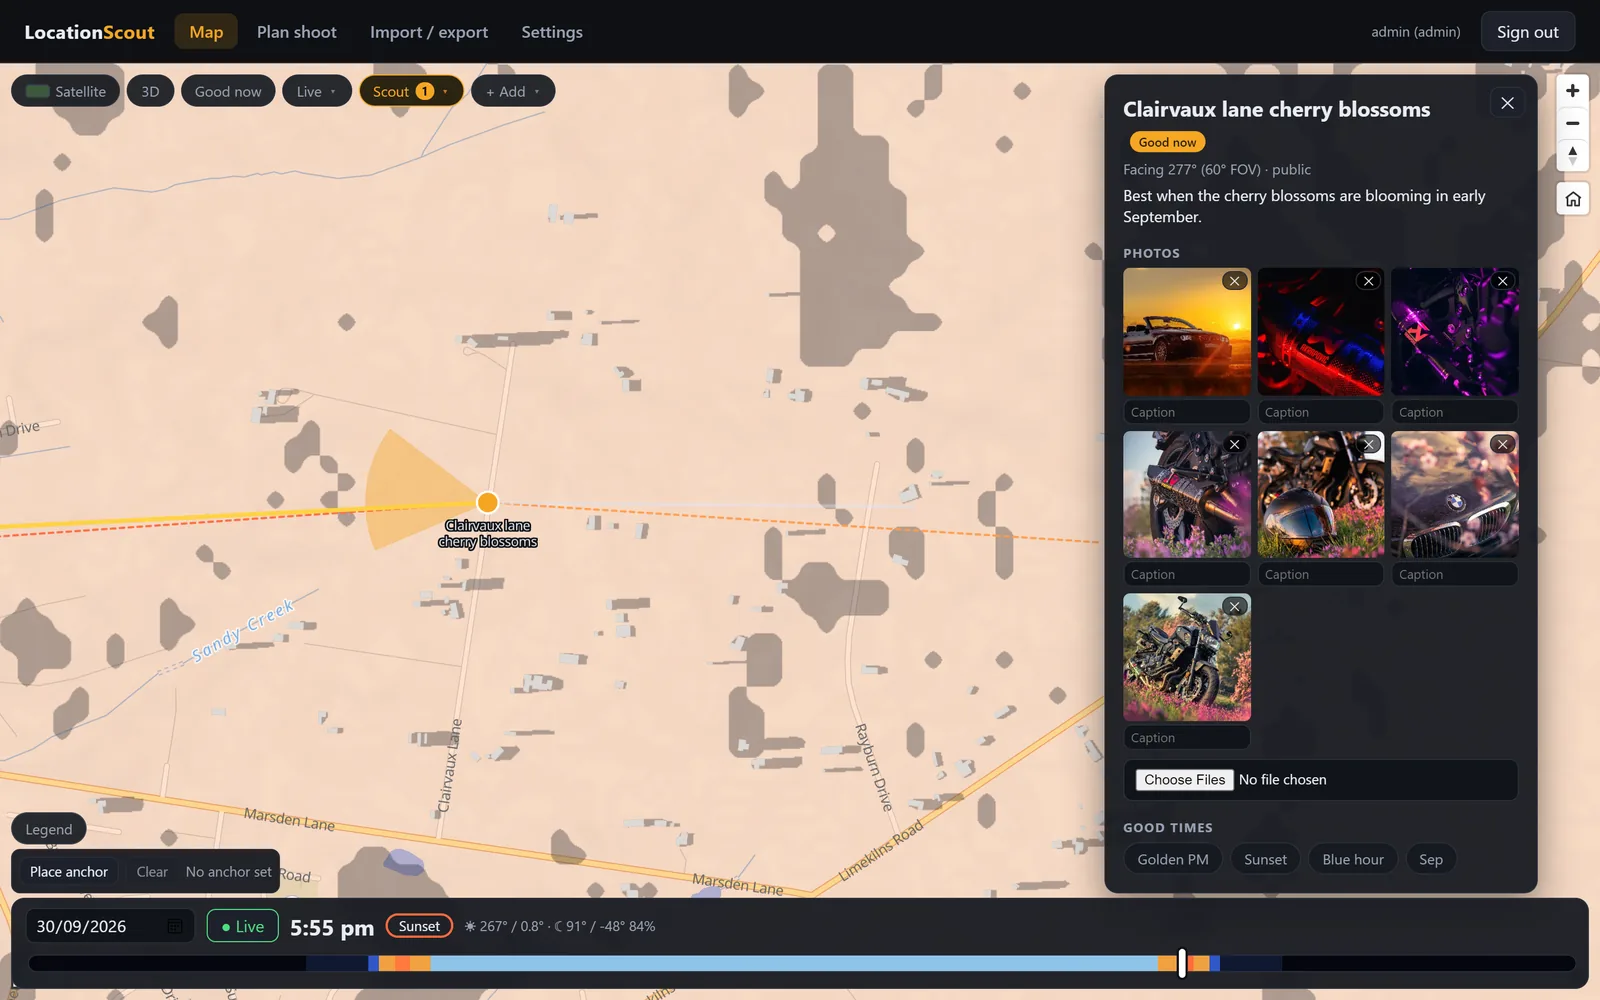
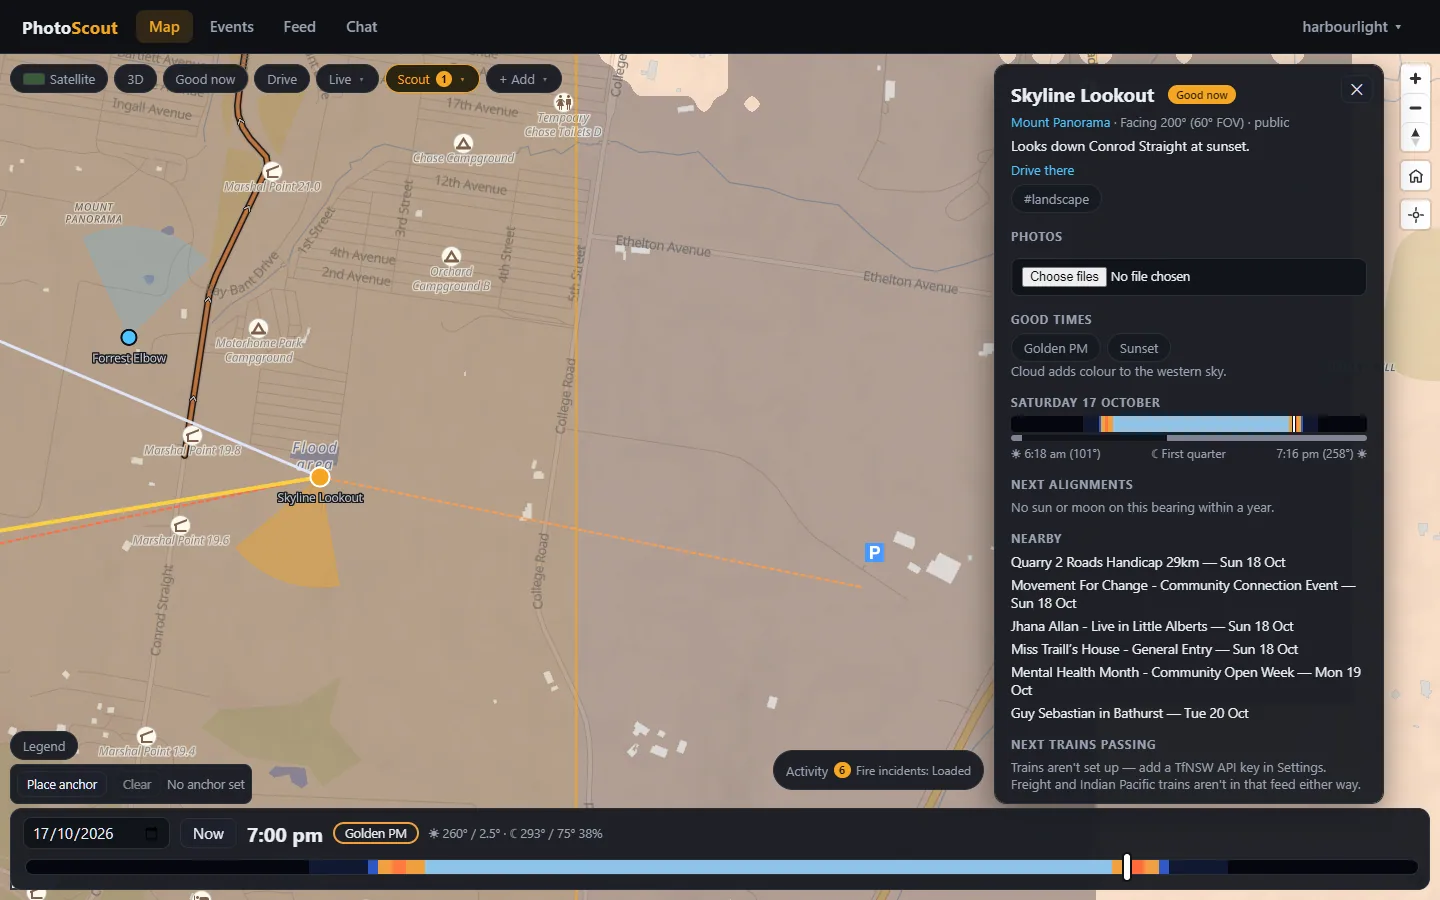
docs(readme): refresh for the current app, new screenshots (#9)

diff --git a/README.md b/README.md
@@ -1,31 +1,34 @@
 # PhotoScout
 
-A map of photography spots, the events worth shooting, and when the light works at them. Visitors can browse the public map; people who sign in with Google or Discord add their own spots.
+A map of photography spots, the events worth shooting, and when the light works at them. A new instance is private: people sign in with Google or Discord, then add their own spots. An admin can open the public map to visitors (see [Signing in](#signing-in)).
 
-![Mount Panorama in 3D on satellite at sunset](docs/screenshots/05-3d-mount-panorama.webp)
+![Mount Panorama in 3D on satellite at sunset](docs/screenshots/03-3d-mount-panorama.webp)
 
 ## What it does
 
 - **Spots and places.** Save spots (a point, a facing direction, a field of view, notes, photos, "good times") grouped into places with outlines. GPS is read from uploaded photos, then stripped before they're stored.
 - **Light on the map.** A time slider drives sun and moon position, golden and blue hour, terrain and building shadows, and sun/moon alignment with each spot's facing direction.
 - **Plan shoot.** Pick a spot and a date range, tick what you're after (golden light, open shade, alignment, clear sky, trains…), and get ranked time windows. Drill into a day's light, shade and weather, preview the view from the spot, or find the exact dates the sun lines up with a bearing on a small interactive map.
-- **Live feeds.** Planes overhead (adsb.lol), NSW passenger trains (TfNSW), a rail network layer with crowdsourced freight sightings, nearby crowds from the built-in events engine, Wikimedia Commons photos, and OpenStreetMap suggestions you can turn into spots.
-- **Events.** The events engine (what was event-scout) runs inside this server: it gathers upcoming events from the sources an admin switches on, places and culls them, and shows them on an Events page, a Calendar and a clustered map layer. Anyone can browse them; signed-in users keep their own shortlist and hide what they don't want. Admins manage areas, sources, the crawler, the local model and notifications under Settings.
-- **Drive.** An in-car screen (`/drive`) with turn-by-turn directions to a searched, tapped or saved destination, or along a saved route. Heading-up map that follows you, speed, spoken prompts, rerouting, and the screen kept awake. Install PhotoScout to your home screen from the browser's menu and it opens like an app.
+- **Live feeds.** Planes overhead (adsb.lol), NSW passenger trains and live traffic cameras (TfNSW, needs a key), a rail network layer with crowdsourced freight sightings, NSW RFS fire incidents, aurora (NOAA Kp), weather and rain radar, tides and swell, road quality from OpenStreetMap, Wikimedia Commons photos, and OpenStreetMap suggestions you can turn into spots.
+- **Events.** The events engine runs inside this server: it gathers upcoming events from the sources an admin switches on, places and culls them, and shows them on an Events page, a Calendar and a clustered map layer. Signed-in users keep their own shortlist, say they're going, invite each other and hide what they don't want, and can post their own meets and cruises (with a route to drive and a meeting point). Admins manage areas, sources, the crawler, AI models, notifications (Discord, Matrix) and busy-place density under Settings.
+- **Drive.** An in-car screen (`/drive`) with turn-by-turn directions to a searched, tapped or saved destination, or along a saved route. Heading-up map that follows you, speed, spoken prompts, rerouting, and the screen kept awake. Start or join a **convoy** (`/convoy`) to see each other live on the map. Install PhotoScout to your home screen from the browser's menu and it opens like an app.
+- **Community.** A feed of check-ins, rides, gear and events (everyone's, or only people you follow), a short-lived public chat room, and a Kit page for your bio, cars and bikes, and camera gear. Reports and suggested spots go to a moderation queue for admins and moderators.
+- **Plugins.** Extra map layers, panels, Settings tabs, Drive alerts and background jobs that you install without changing the app. See [Plugins](#plugins).
 - **Import, export, share.** KML/KMZ, GPX, GeoJSON, CSV and Google Takeout in; GeoJSON, GPX or a zip with photos out. Share links, and syncing spots from other instances.
-- **Accounts.** Sign in with Google or Discord; there are no passwords. The instance is private by default (everything needs a sign-in); an admin can allow public reads under Settings > Instance, and then anonymous visitors see public spots, places and routes, and the events. Signed-in contributors add and edit their own; admins manage everyone's, the users and the settings.
+- **Accounts.** Sign in with Google or Discord; there are no passwords. The instance is private by default (everything needs a sign-in); an admin can allow public reads under Settings > Instance (or set `PUBLIC_READS`), and then anonymous visitors see public spots, places and routes, and the events. Signed-in contributors add and edit their own; moderators handle reports; admins manage everyone's, the users and the settings.
 
 ## Screenshots
 
 | | |
 |---|---|
-| ![Map overview at sunset](docs/screenshots/01-map-overview.webp) Map at sunset, sun and moon rays | ![Spot panel](docs/screenshots/02-spot-panel.webp) A spot: facing wedge, photos, good times |
-| ![Photo viewer](docs/screenshots/03-photo-viewer.webp) Photo viewer | ![Photo hover card](docs/screenshots/04-photo-markers.webp) Hover a spot for its photo |
-| ![Capertee Valley in 3D](docs/screenshots/06-3d-capertee-valley.webp) 3D terrain, Capertee Valley | ![Live trains](docs/screenshots/07-trains.webp) Live and scheduled trains |
-| ![Route](docs/screenshots/08-route.webp) A route | ![Traffic camera](docs/screenshots/09-traffic-camera.webp) Live traffic camera, 3D at night |
-| ![Rain radar](docs/screenshots/10-weather.webp) Rain radar and cloud | ![Light pollution](docs/screenshots/11-light-pollution.webp) Light pollution |
-| ![Plan shoot](docs/screenshots/12-plan-shoot.webp) Plan shoot: ranked windows | <img src="docs/screenshots/13-phone-spot.webp" alt="Phone layout" width="180"> Phone layout |
-| ![Import and export](docs/screenshots/14-import-export.webp) Import, export, share | ![Settings](docs/screenshots/15-settings.webp) Settings |
+| ![Map overview at sunset](docs/screenshots/01-map-overview.webp) Map at sunset: sun and moon rays, terrain and building shadows | ![Spot panel](docs/screenshots/02-spot-panel.webp) A spot: facing wedge, good times, the day's light, nearby events |
+| ![Route](docs/screenshots/04-route.webp) A saved route | ![Plan shoot](docs/screenshots/05-plan-shoot.webp) Plan shoot: ranked windows |
+| ![Events](docs/screenshots/06-events.webp) Events, filtered to Cars & bikes | ![Calendar](docs/screenshots/07-calendar.webp) Calendar, month view |
+| ![Light pollution](docs/screenshots/10-light-pollution.webp) Night lights | ![Import and export](docs/screenshots/11-import-export.webp) Import, export, share |
+| ![Plugins](docs/screenshots/12-plugins.webp) Settings > Manage plugins, browsing a registry | ![Settings](docs/screenshots/13-settings.webp) Settings > Instance: who can view |
+| <img src="docs/screenshots/08-drive.webp" alt="Drive" width="180"> Drive, previewing a route to a tapped destination | <img src="docs/screenshots/09-phone-spot.webp" alt="Phone layout" width="180"> Phone layout |
+
+The events shown are whatever the engine found for the demo area; they are other people's listings.
 
 ## Run it
 
@@ -36,7 +39,7 @@ npm install
 npm run dev
 ```
 
-Open http://localhost:5174. The API runs on :3003 and Vite proxies `/api` to it. Browsing works straight away; to sign in, set up at least one provider (below).
+Open http://localhost:5174. The API runs on :3003 and Vite proxies `/api` to it. The instance is private, so you need a provider set up (below) to sign in. To look around without one, start it with `PUBLIC_READS=1`: the public map is then open, though adding anything still needs a sign-in.
 
 With Docker, using the published image:
 
@@ -44,19 +47,30 @@ With Docker, using the published image:
 docker compose pull && docker compose up -d
 ```
 
-Then open http://localhost:3003 (set `PUBLIC_URL` to match, see below).
+Then open http://localhost:3003 (set `PUBLIC_URL` to match, see below). The compose file also starts the event crawler and an OSRM routing server (see Driving directions).
 
 > :3003 in dev serves the last `npm run build` of the web app, not your working copy. Use :5174 while developing.
 
 ### Signing in
 
-Sign-in goes to Google or Discord and back; this app keeps the provider's id for you, a display name to make a handle from, and your picture. No email address is asked for. A provider only appears on the sign-in page once both its client id and secret are set.
+Sign-in goes to Google or Discord and back; this app keeps the provider's id for you, a display name to make a handle from, and your picture. No email address is asked for. A provider only appears on the sign-in page once both its client id and secret are set, so configure one or both.
 
 1. Create an OAuth client with the provider and give it the redirect URL `<PUBLIC_URL>/api/auth/google/callback` (or `.../discord/callback`). For local development that is `http://localhost:5174/api/auth/google/callback`.
 2. Set `PUBLIC_URL` to the address people reach the app at, with no trailing slash. It has to match exactly: it builds the redirect URL, and a write request whose `Origin` is anything else is refused.
-3. Sign in, then open Settings > Account. It shows your account id (`google:1234…`). Put it in `ADMIN_IDS` and sign in again to become an admin. Everyone else is a contributor.
+3. Put the client id and secret in the environment (below), or enter them under Settings > Sign-in once you have an admin. The environment wins when it sets a provider.
+4. Sign in, then open Settings > Account. It shows your account id (`discord:1234…`). Put it in `ADMIN_IDS` and sign in again to become an admin. Everyone else is a contributor; admins can make moderators under Settings > Users.
 
 The session cookie is `Secure`, so run it behind HTTPS. Browsers make an exception for `localhost`.
+
+### Plugins
+
+A plugin is a zip with a `plugin.json` and a server half, a web half, or both. It can add routes and a database, background tasks, map layers, legend toggles, side panels, Settings tabs and Drive alert sources. Admins manage them under Settings > Manage plugins: install from a registry, upload a zip, or add another registry (https only). A plugin has full access to the instance, so install only what you trust.
+
+- **Registry.** The default is [kapsikkum/photoscout-plugins](https://github.com/kapsikkum/photoscout-plugins); `PLUGIN_REGISTRY_URL` points a fresh instance somewhere else.
+- **Bundled.** Radio Garden (a radio panel with stations on the map) ships with the app and is installed at startup. An admin can disable or uninstall it.
+- **Waze police and hazards.** Not part of core. It lives in [kapsikkum/photoscout-plugin-waze](https://github.com/kapsikkum/photoscout-plugin-waze) and is listed in the registry. Installed, it adds the Police & hazards layer, a police heatmap and Drive warnings. Its reports come from an Android emulator bridge you host yourself: see [services/waze-harvester/README.md](services/waze-harvester/README.md) and `npm run waze:setup`.
+- **Writing one.** [docs/plugins/authoring.md](docs/plugins/authoring.md) walks through it, with a starter in `docs/plugins/template` and the contract in `packages/plugin-sdk`. `npm run plugin:validate -- plugins/<name>` checks a manifest and `npm run plugin:build -- plugins/<name>` makes the zip.
+- **Safe mode.** `PHOTOSCOUT_SAFE_MODE=1` starts the server without running any plugin, for when one misbehaves.
 
 ### Driving directions (OSRM)
 
@@ -80,47 +94,60 @@ The compose file mounts `./osrm` into the `osrm` container and sets `OSRM_URL=ht
 | Variable | Default | Meaning |
 |---|---|---|
 | `API_PORT` | `3003` | Server port. |
-| `PUBLIC_URL` | `http://localhost:5174` | Where this app is reached from outside, no trailing slash. Sign-in redirects back to it. |
-| `GOOGLE_CLIENT_ID`, `GOOGLE_CLIENT_SECRET` | — | Turns on "Continue with Google". |
-| `DISCORD_CLIENT_ID`, `DISCORD_CLIENT_SECRET` | — | Turns on "Continue with Discord". |
+| `PUBLIC_URL` | `http://localhost:5174` (compose: `http://localhost:3003`) | Where this app is reached from outside, no trailing slash. Sign-in redirects back to it. |
+| `GOOGLE_CLIENT_ID`, `GOOGLE_CLIENT_SECRET` | — | Turns on "Continue with Google". Can also be set under Settings > Sign-in; the environment wins. |
+| `DISCORD_CLIENT_ID`, `DISCORD_CLIENT_SECRET` | — | Turns on "Continue with Discord". Same. |
 | `ADMIN_IDS` | — | Comma-separated `provider:id` accounts that are admins, e.g. `google:1234,discord:5678`. Takes effect on their next sign-in. |
 | `PUBLIC_READS` | — | Whether visitors who have not signed in may read the public map. Unset, the instance is private: everything but signing in needs a session. `1` or `true` allows public reads; any other value (`0`, `false`) keeps it private. Wins over the Settings > Instance switch. |
 | `TRUST_PROXY` | — | Behind a reverse proxy: hops to trust `X-Forwarded-For` from. The proxy must also pass WebSocket upgrades on `/ws` (convoys and live chat); without it chat falls back to polling and convoys do not connect. |
 | `DATA_DIR` | `data/` in the repo (`/app/data` in the image) | Where the database and photos are kept. |
-| `TFNSW_API_KEY` | — | TfNSW Open Data key, for passenger trains and live traffic cameras. |
-| `EVENT_SCOUT_DATA` | `<DATA_DIR>/events` | Where the events engine keeps its own database (`event-scout.db`) and flyers. To bring an existing event-scout across, copy its `data/` folder here. |
-| `OSRM_URL` | `https://router.project-osrm.org` | Driving directions for Drive and snapped routes. The default is the public OSRM demo, for development only; in production point it at your own (below). docker-compose sets it to the bundled `osrm` service. |
+| `TFNSW_API_KEY` | — | TfNSW Open Data key, for passenger trains and live traffic cameras. Can also be set under Settings > Trains; the environment wins. |
+| `EVENT_SCOUT_DATA` | `<DATA_DIR>/events` | Where the events engine keeps its own database and flyers. (The name is left over from when it was a separate service.) |
+| `CRAWLER_URL` | `http://crawler:3002` in compose | Where the event crawler listens. Settings > Crawler can point elsewhere. |
+| `OLLAMA_URL` | `http://localhost:11434` | Default address for an Ollama AI model service. AI models (Ollama, OpenAI-compatible servers, Claude, Gemini) are set up under Settings > AI models. |
+| `OSRM_URL` | `https://router.project-osrm.org` | Driving directions for Drive and snapped routes. The default is the public OSRM demo, for development only; in production point it at your own (above). docker-compose sets it to the bundled `osrm` service. |
 | `ADSB_URL` | `https://api.adsb.lol` | Planes feed; airplanes.live also works. |
 | `OVERPASS_URL` | — | OpenStreetMap Overpass server to try first (rail, suggestions); public mirrors are tried after it. |
-| `TZ` | `Australia/Sydney` | What counts as "today" and when daily tasks run. |
+| `PLUGIN_REGISTRY_URL` | the registry above | The plugin registry an instance starts with (https only). |
+| `PHOTOSCOUT_SAFE_MODE` | — | `1` starts without running any plugin. |
+| `TZ` | `Australia/Sydney` in compose | What counts as "today" and when daily tasks run. |
 
-Any feed without its key shows "not configured" instead of failing; until an admin sets a location under Settings → Events, the Events page is simply empty.
+Any feed without its key shows "not configured" instead of failing; until an admin sets a location under Settings > Events, the Events page is simply empty. The Waze plugin has its own keys (`WAZE_ALERT_SERVICE_URL`, `WAZE_HARVESTER_API_KEY`); see `.env.example`.
 
 ## How it works
 
 ```
 server/   Express API, SQLite (node:sqlite), feeds and background tasks
-  src/feeds/    planes, trains (GTFS static + realtime), freight, weather, event-scout
-  src/events/   the events engine: sources, refresh, culling, geocoding, density, the local model, notifications, its tasks
+  src/feeds/    planes, trains (GTFS static + realtime), freight, cameras, fires, weather, marine, aurora
+  src/events/   the events engine: sources, refresh, culling, geocoding, density, notifications, its tasks
+    llm/          AI model services (Ollama, OpenAI-compatible, Claude, Gemini) and the router that picks one
   src/events.ts the events list for visitors (cut down from the engine, cached a minute) and each user's star/hide
-  src/sources/  OSM rail and candidates, Wikimedia Commons
+  src/plugins/  the plugin runtime: manifests, store, registry install, bundled plugins, routes
+  src/sources/  OSM rail, roads and candidates, Wikimedia Commons
   src/tasks/    scheduled background jobs (remote sync, feed imports)
 web/      React 19 + Vite + MapLibre
   src/map/      layers, sun/moon maths, shadow workers, geometry helpers
-  src/pages/    Map, Events, Calendar, Plan shoot, Settings, Import/Export
+  src/pages/    Map, Events, Calendar, Plan shoot, Drive, Convoy, Feed, Chat, Kit, Settings, Import/Export
+  src/plugins/  loads each plugin's web half into the map, panels and Settings
+packages/
+  plugin-sdk/   the contract plugins are written against (server and web)
+plugins/
+  radio-garden/ the bundled Radio Garden plugin
 services/
   crawler/      standalone event crawler, HTTP service and container
   density/      venue density browser, sampling, storage and rendering package
-  waze-harvester/ Android emulator and police/hazard report bridge
-docs/     API reference and research notes
+  waze-harvester/ Android emulator and police/hazard report bridge, used by the Waze plugin
+docs/     API reference, plugin guide (docs/plugins) and research notes
 ```
 
 - **Sun and moon** positions use [suncalc](https://github.com/mourner/suncalc) in `web/src/map/sun.ts`, all client-side, so the time slider is instant.
 - **Shadows** are one raster. Terrain shadows are ray-marched over elevation tiles (AWS Terrain Tiles) in a worker, and building footprints are drawn into the same mask so overlaps don't darken twice.
 - **Events.** The engine's own API (`/api/events-admin/*`) is for admins only. Everyone else gets a cut-down list: what the engine has culled or hidden is dropped, only the fields the pages need are passed on, and the result is kept for a minute so visitors can't make the server rebuild it on every request. The crawler, which drives a headless browser against other people's sites, stays a separate container.
-- **Service code.** The density implementation lives in `services/density`; the server supplies its existing events database, settings, network guards and scheduler. It continues to use the same database. The crawler source and Dockerfile live in `services/crawler`; local development keeps using `crawler/data` for existing crawler state, and containers use `CRAWLER_DATA`.
-- **Police and hazards (a plugin).** Waze reports are not part of core. Install the Waze plugin (its own repository, `photoscout-plugin-waze`, by upload or from a plugin registry) and it adds the Police & hazards layer, the police heatmap and Drive warnings. The Android report bridge, host setup command and container configuration are described in [services/waze-harvester/README.md](services/waze-harvester/README.md). Windows report integration and interleaved area requests have been verified; fresh software-emulated Linux setup remains under verification.
-- **Service activity.** The bottom-right Logs button opens a timestamped activity history on the map and in Settings. It includes feed updates, queued scans and failures, with an Issues only filter. Admins can also see crawler and venue density progress while the log is open. The history stays in the current browser session and is limited to 80 entries.
+- **AI models.** Optional. A service has a provider, a model and the jobs it may do: text (checking and tidying listings), vision (flyers) or chat (the Matrix bot). With several services for one job, the router picks by strategy (least busy, round robin or random) and tries the others if one fails.
+- **Service code.** The density implementation lives in `services/density`; the server supplies its existing events database, settings, network guards and scheduler. The crawler source and Dockerfile live in `services/crawler`; local development keeps using `crawler/data` for existing crawler state, and containers use `CRAWLER_DATA`.
+- **Plugins.** The server mounts a plugin's routes under `/api/plugins/<id>/`, and they need a session unless the plugin's `plugin.json` declares them `public` and public reads are on. Plugins are installed to the data directory; the web half is a bundle the map loads at runtime.
+- **Service activity.** The bottom-right Activity button opens a timestamped activity history on the map and in Settings. It includes feed updates, queued scans and failures, with an Issues only filter. Admins can also see crawler and venue density progress while the log is open. The history stays in the current browser session and is limited to 80 entries.
+- **Convoys and chat.** Convoy rooms (up to 30 people) and the chat room live in server memory over a WebSocket. A position is held only as a member's latest and dropped when they leave; chat lines expire after 30 minutes.
 - **Remotes and shares.** A share link is a token that returns a GeoJSON bundle. Another instance adds it as a remote and syncs daily. Remote URLs are SSRF-guarded.
 - **Trains.** Passenger trains come from TfNSW timetables plus realtime positions. Freight has no public feed ([why](docs/freight-schedule-research.md)), so it's built from logged sightings snapped to the rail network.
 
@@ -131,11 +158,12 @@ Full endpoint list: [docs/api.md](docs/api.md).
 - Plane paths are projected 15 minutes by dead reckoning, so turning aircraft drift off.
 - Freight prediction stops where a mapped stretch of track ends. It doesn't route across junctions.
 - The sun-bearing wedges are approximate near the polar circles.
+- Convoy rooms are in memory in one process, so they don't survive a restart or span several instances.
 
 ## Contributing
 
 1. Branch off `master`.
-2. Make the change, with a test for any non-trivial logic. Tests use `node:test` in `server/test` and `web/test`. Keep maths and geometry in pure functions so they can be tested without a browser.
+2. Make the change, with a test for any non-trivial logic. Tests use `node:test` in `server/test` and `web/test`, and plugins keep theirs beside them. Keep maths and geometry in pure functions so they can be tested without a browser.
 3. Check before pushing:
    ```bash
    npm run typecheck
@@ -143,4 +171,4 @@ Full endpoint list: [docs/api.md](docs/api.md).
    ```
 4. Open a PR into `master`. Use [Conventional Commits](https://www.conventionalcommits.org) (`feat(web): …`, `fix(server): …`): release-please builds the changelog and version from them.
 
-CI typechecks and tests every PR, and builds the Docker image. Merges to `master` publish `ghcr.io/kapsikkum/photoscout:latest`.
+CI typechecks and tests every PR, and builds the Docker images (the app and the crawler). Merges to `master` publish `ghcr.io/kapsikkum/photoscout:latest` and `ghcr.io/kapsikkum/photoscout-crawler:latest`.
